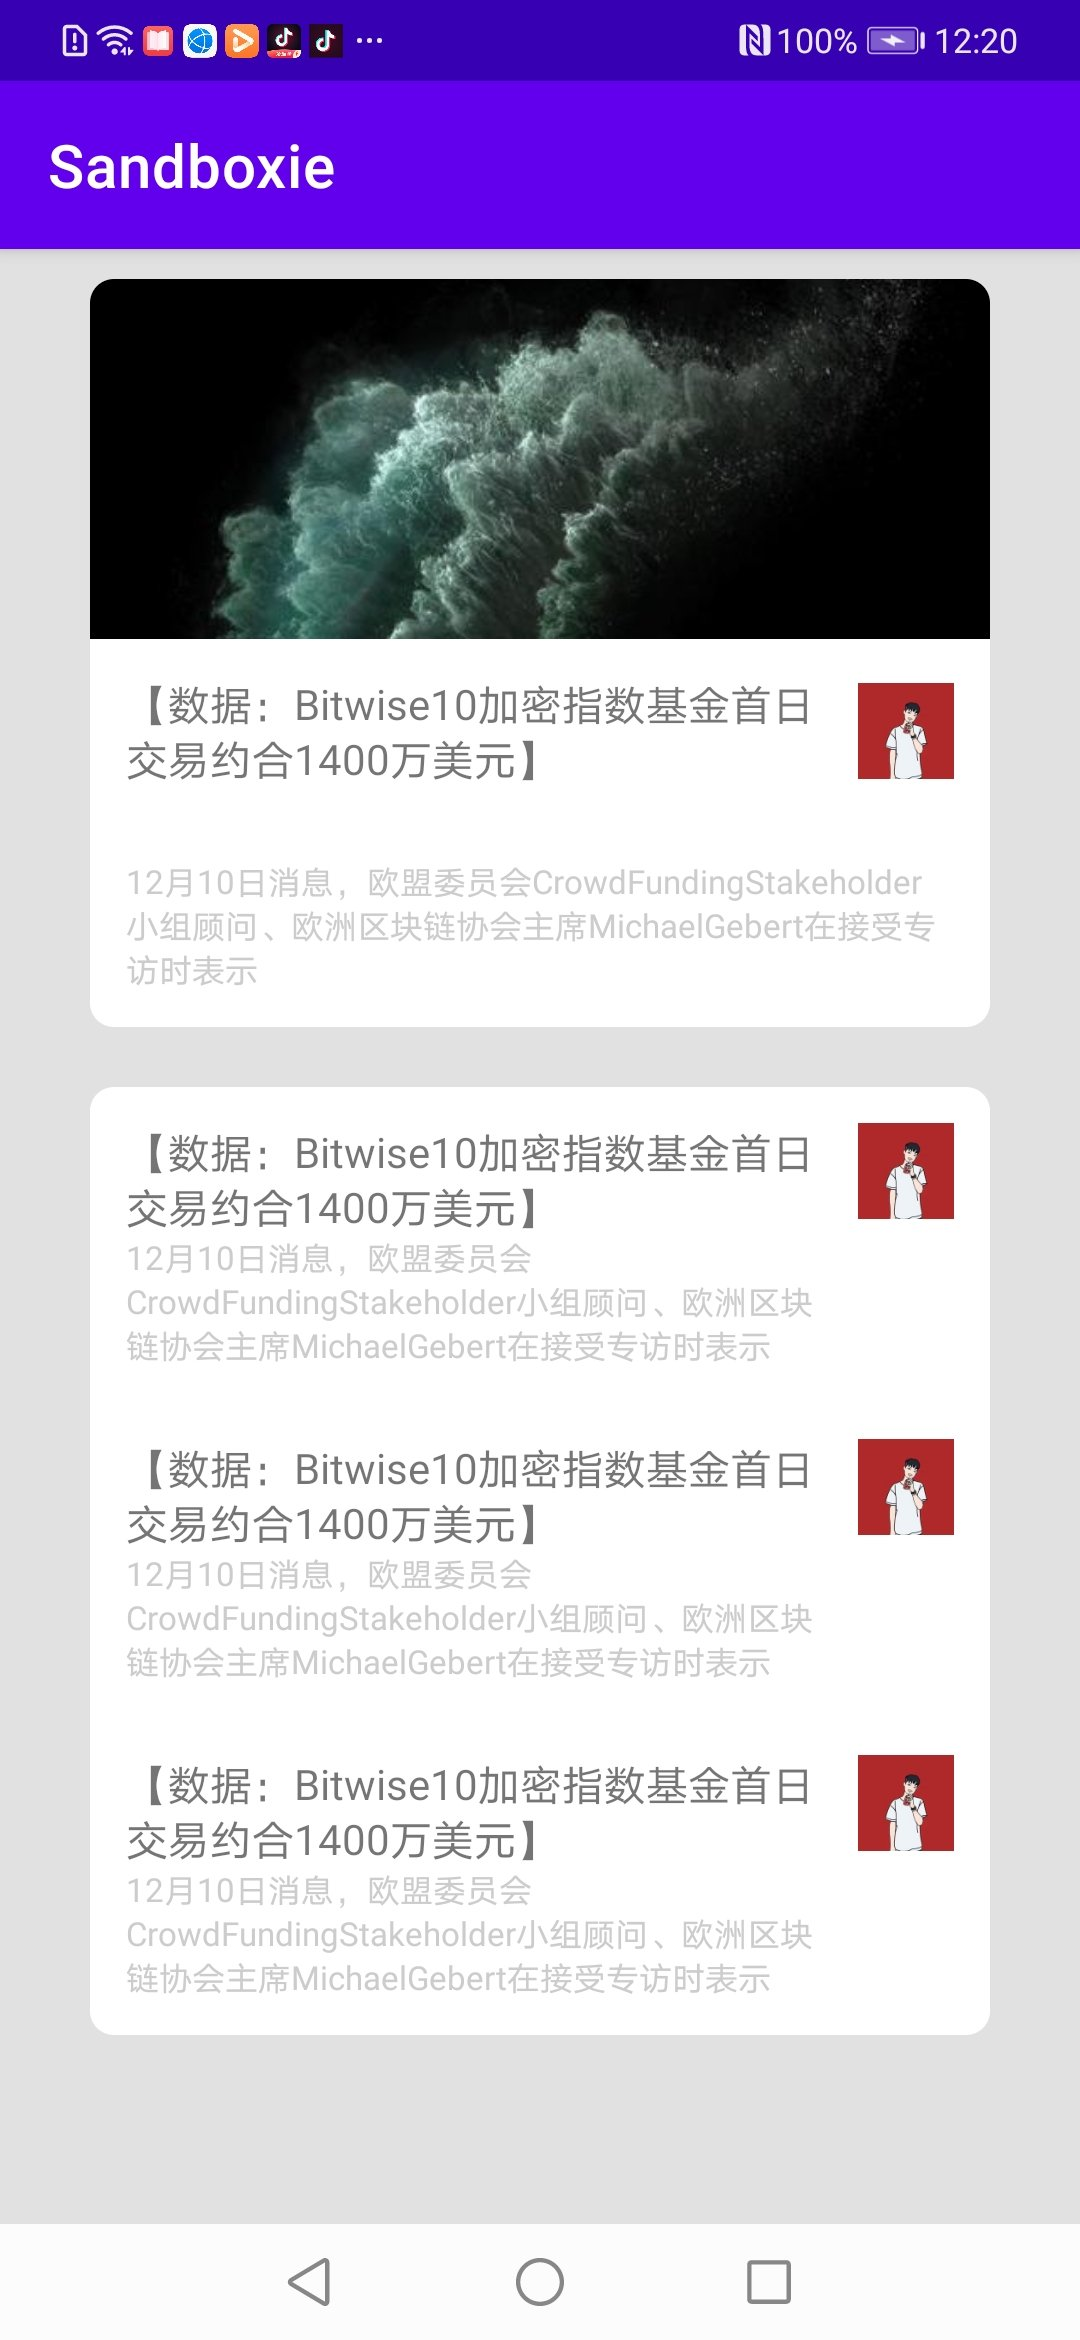
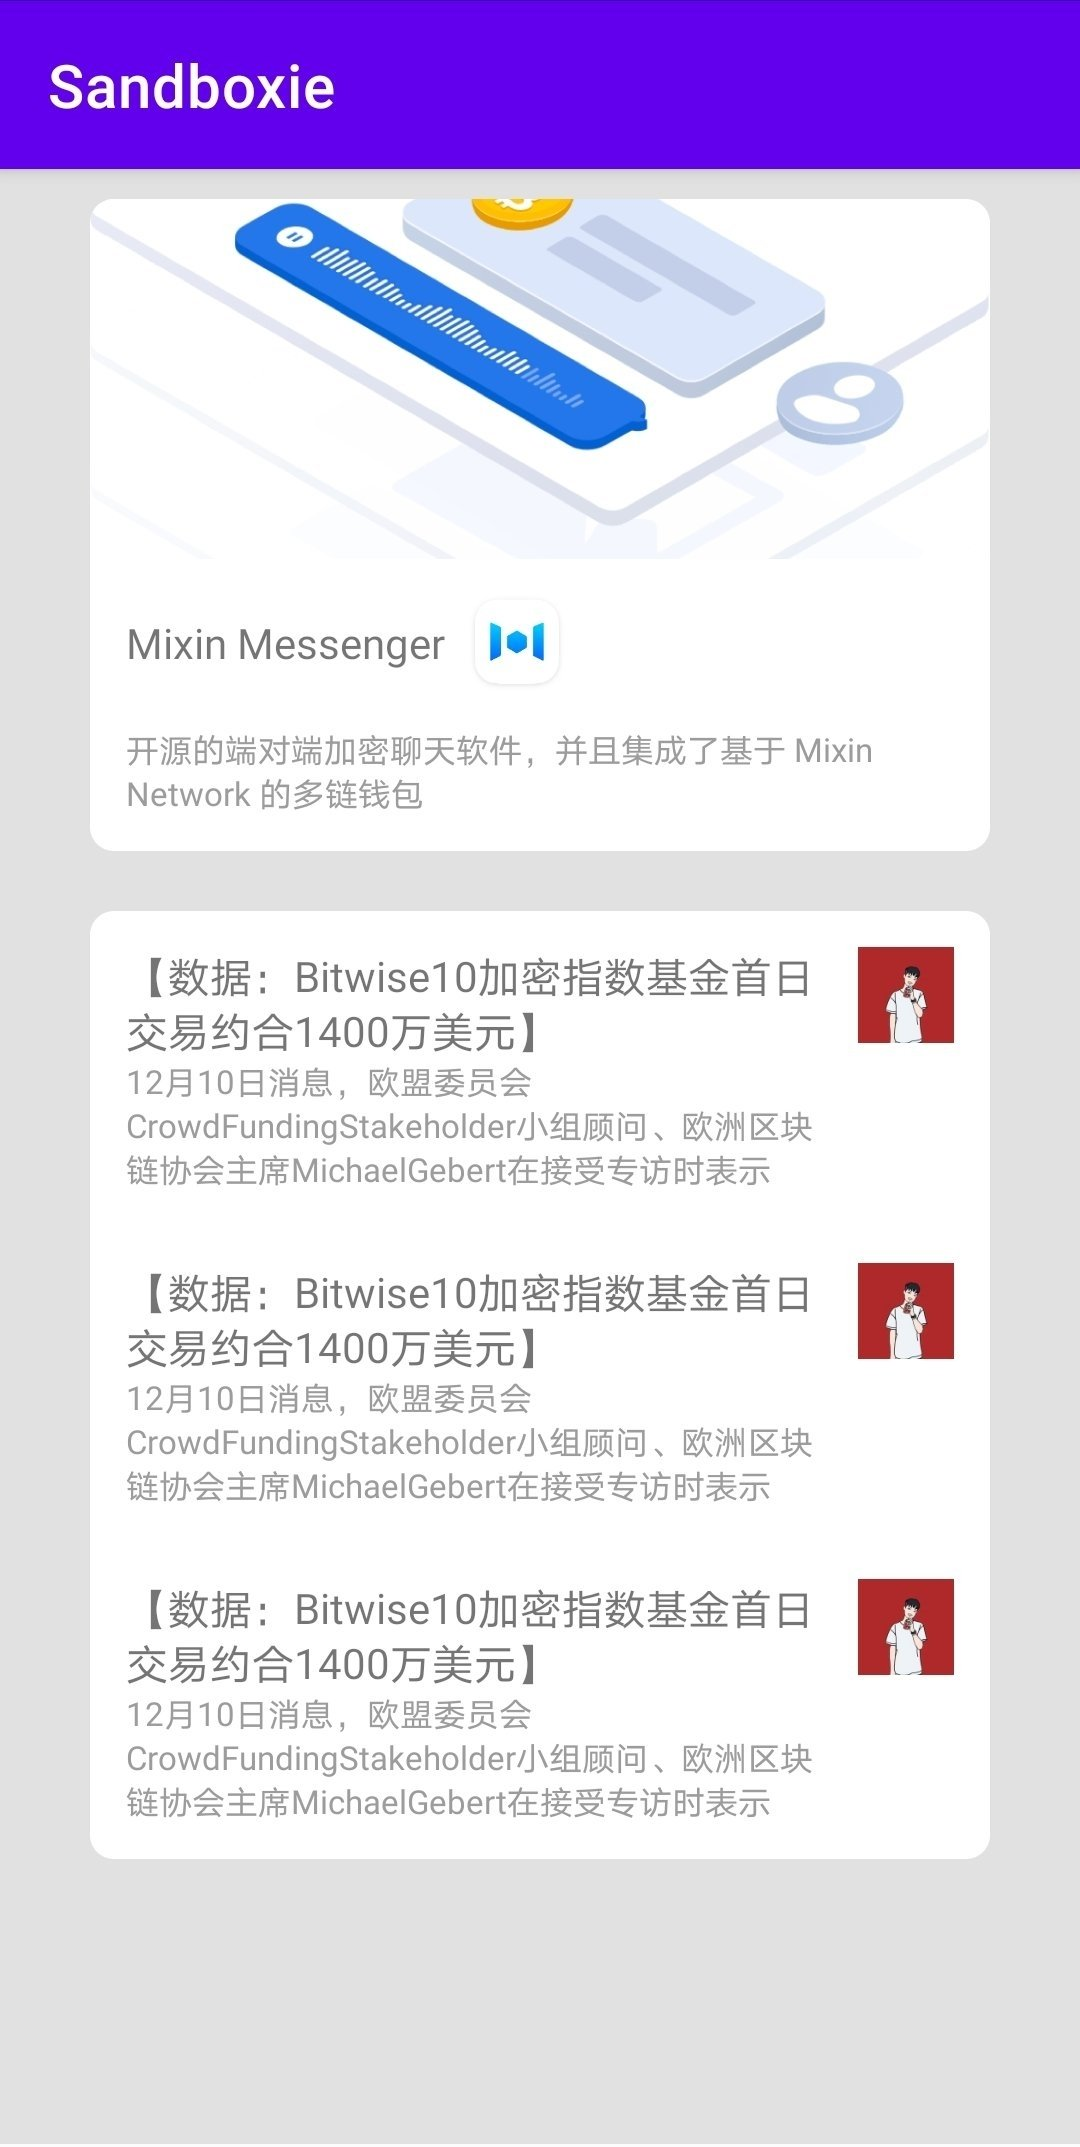
Update README

diff --git a/app/src/main/java/one/seniorzhai/sandboxie/sample/MainActivity.kt b/app/src/main/java/one/seniorzhai/sandboxie/sample/MainActivity.kt
@@ -17,19 +17,20 @@ class MainActivity : AppCompatActivity() {
         val str = """
      <column color="#FFFFFF" round="8">
         <image height="120" 
-            url="https://ss0.bdstatic.com/70cFuHSh_Q1YnxGkpoWK1HF6hhy/it/u=81837432,2519168038&amp;fm=11&amp;gp=0.jpg" />
+            url="https://mixin.one/assets/244890a3709f8ba8c57cdec84aaca1cb.png" />
         <row gravity="center_vertical" padding="12">    
-            <text text="【数据：Bitwise10加密指数基金首日交易约合1400万美元】" flex="1" right="8"/>
+            <text text="Mixin Messenger" flex="1" right="8"/>
             <image
                 width="32"
                 height="32"
-                url="https://ss0.bdstatic.com/70cFuHSh_Q1YnxGkpoWK1HF6hhy/it/u=1709644436,2739756540&amp;fm=26&amp;gp=0.jpg" />
+                url="https://mixin.one/assets/e8f3c9ed28995902bfb20f26d8ce3477.png" />
         </row>
         <text
-            padding="12"
-            color="#CCCCCC"
+            left="12"
+            bottom="12"
+            color="#9C9C9C"
             size="11"
-            text="12月10日消息，欧盟委员会CrowdFundingStakeholder小组顾问、欧洲区块链协会主席MichaelGebert在接受专访时表示" />
+            text="开源的端对端加密聊天软件，并且集成了基于 Mixin Network 的多链钱包" />
     </column>
         """
 
@@ -53,7 +54,7 @@ class MainActivity : AppCompatActivity() {
                 text="【数据：Bitwise10加密指数基金首日交易约合1400万美元】"
                 flex="1" />
             <text
-                color="#CCCCCC"
+                color="#9C9C9C"
                 size="11"
                 text="12月10日消息，欧盟委员会CrowdFundingStakeholder小组顾问、欧洲区块链协会主席MichaelGebert在接受专访时表示" />
         </column>
@@ -71,7 +72,7 @@ class MainActivity : AppCompatActivity() {
                 text="【数据：Bitwise10加密指数基金首日交易约合1400万美元】"
                 flex="1" />
             <text
-                color="#CCCCCC"
+                color="#9C9C9C"
                 size="11"
                 text="12月10日消息，欧盟委员会CrowdFundingStakeholder小组顾问、欧洲区块链协会主席MichaelGebert在接受专访时表示" />
         </column>
@@ -89,7 +90,7 @@ class MainActivity : AppCompatActivity() {
                 text="【数据：Bitwise10加密指数基金首日交易约合1400万美元】"
                 flex="1" />
             <text
-                color="#CCCCCC"
+                color="#9C9C9C"
                 size="11"
                 text="12月10日消息，欧盟委员会CrowdFundingStakeholder小组顾问、欧洲区块链协会主席MichaelGebert在接受专访时表示" />
         </column>

diff --git a/README.md b/README.md
@@ -1,5 +1,6 @@
 # Sandboxie
 将既定规则的xml转换成View的渲染工具
+![](https://raw.githubusercontent.com/SeniorZhai/sandboxie/main/screenshot/screenshot.jpeg)
 
 ## 容器
 用于排列子项
@@ -43,6 +44,32 @@
 ### 容器属性
 - gravity
 - round 设置圆角
+
+## 使用
+```kotlin
+       val str = """
+        <column color="#FFFFFF" round="8">
+             <image height="120"
+                 url="https://mixin.one/assets/244890a3709f8ba8c57cdec84aaca1cb.png" />
+             <row gravity="center_vertical" padding="12">
+                 <text text="Mixin Messenger" flex="1" right="8"/>
+                 <image
+                     width="32"
+                     height="32"
+                     url="https://mixin.one/assets/e8f3c9ed28995902bfb20f26d8ce3477.png" />
+             </row>
+             <text
+                 left="12"
+                 bottom="12"
+                 color="#9C9C9C"
+                 size="11"
+                 text="开源的端对端加密聊天软件，并且集成了基于 Mixin Network 的多链钱包" />
+        </column>
+        """
+
+    // 生成View
+    Sandboxie(this, str).build(),
+```
 
 ## TODO
 - version 用于标记当前渲染器版本
